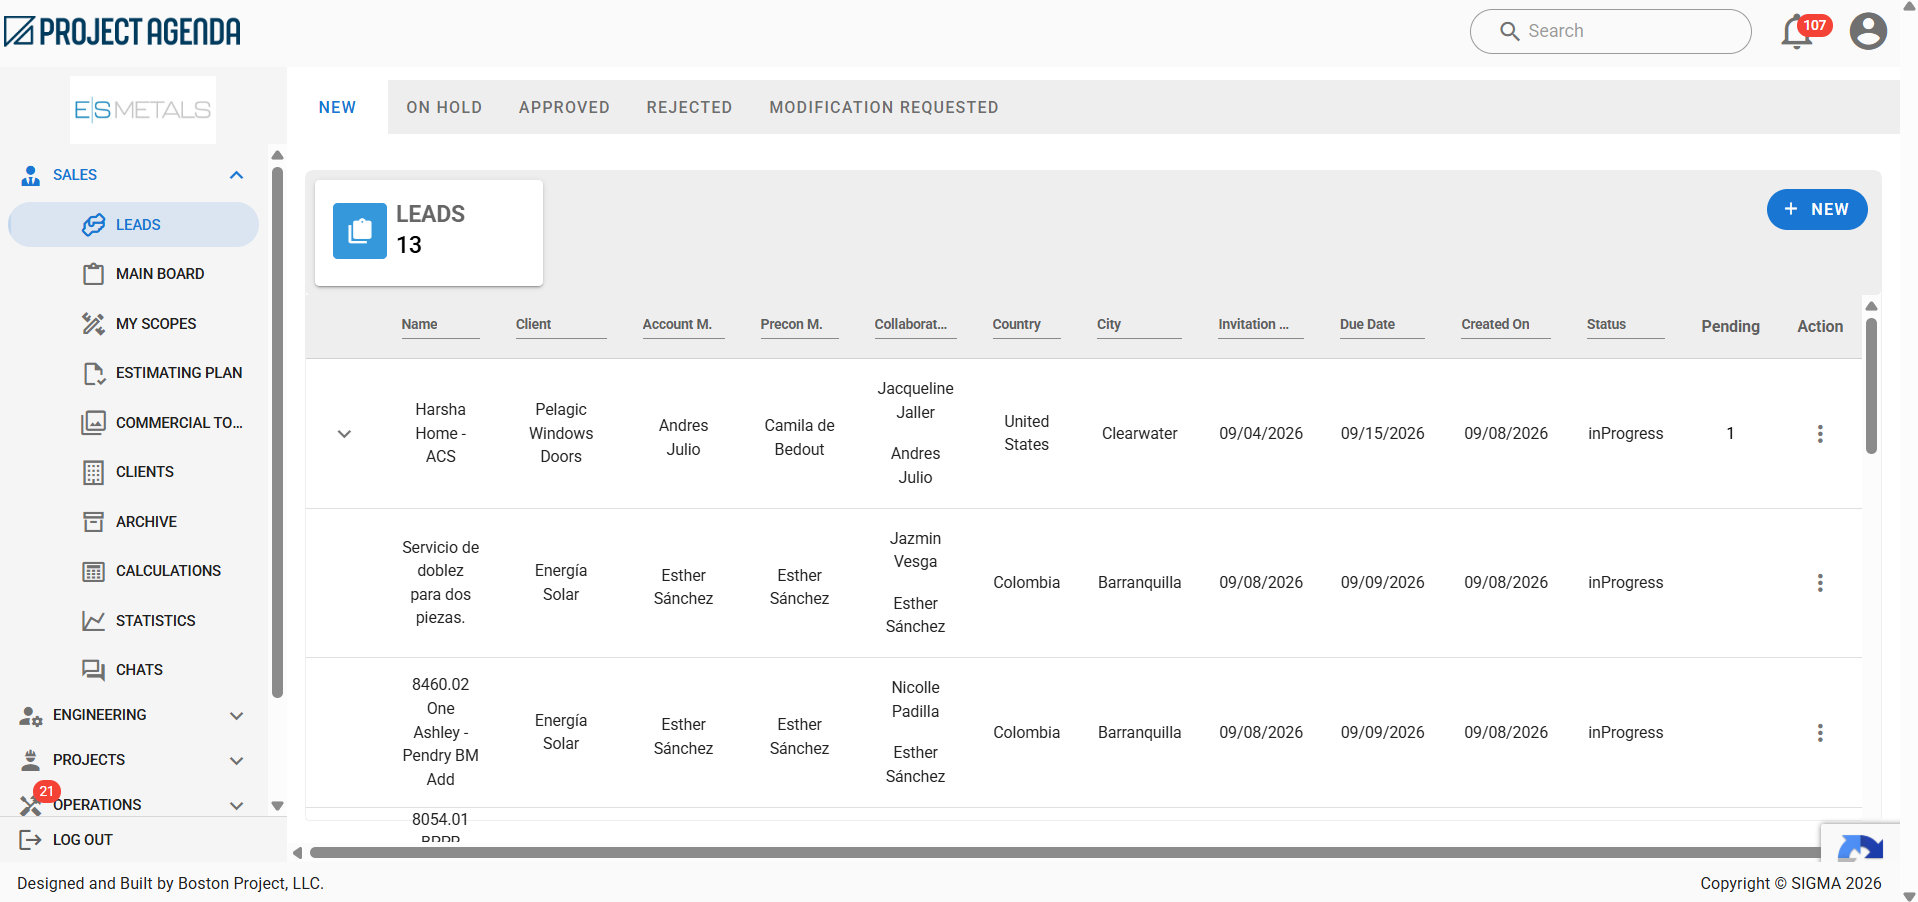
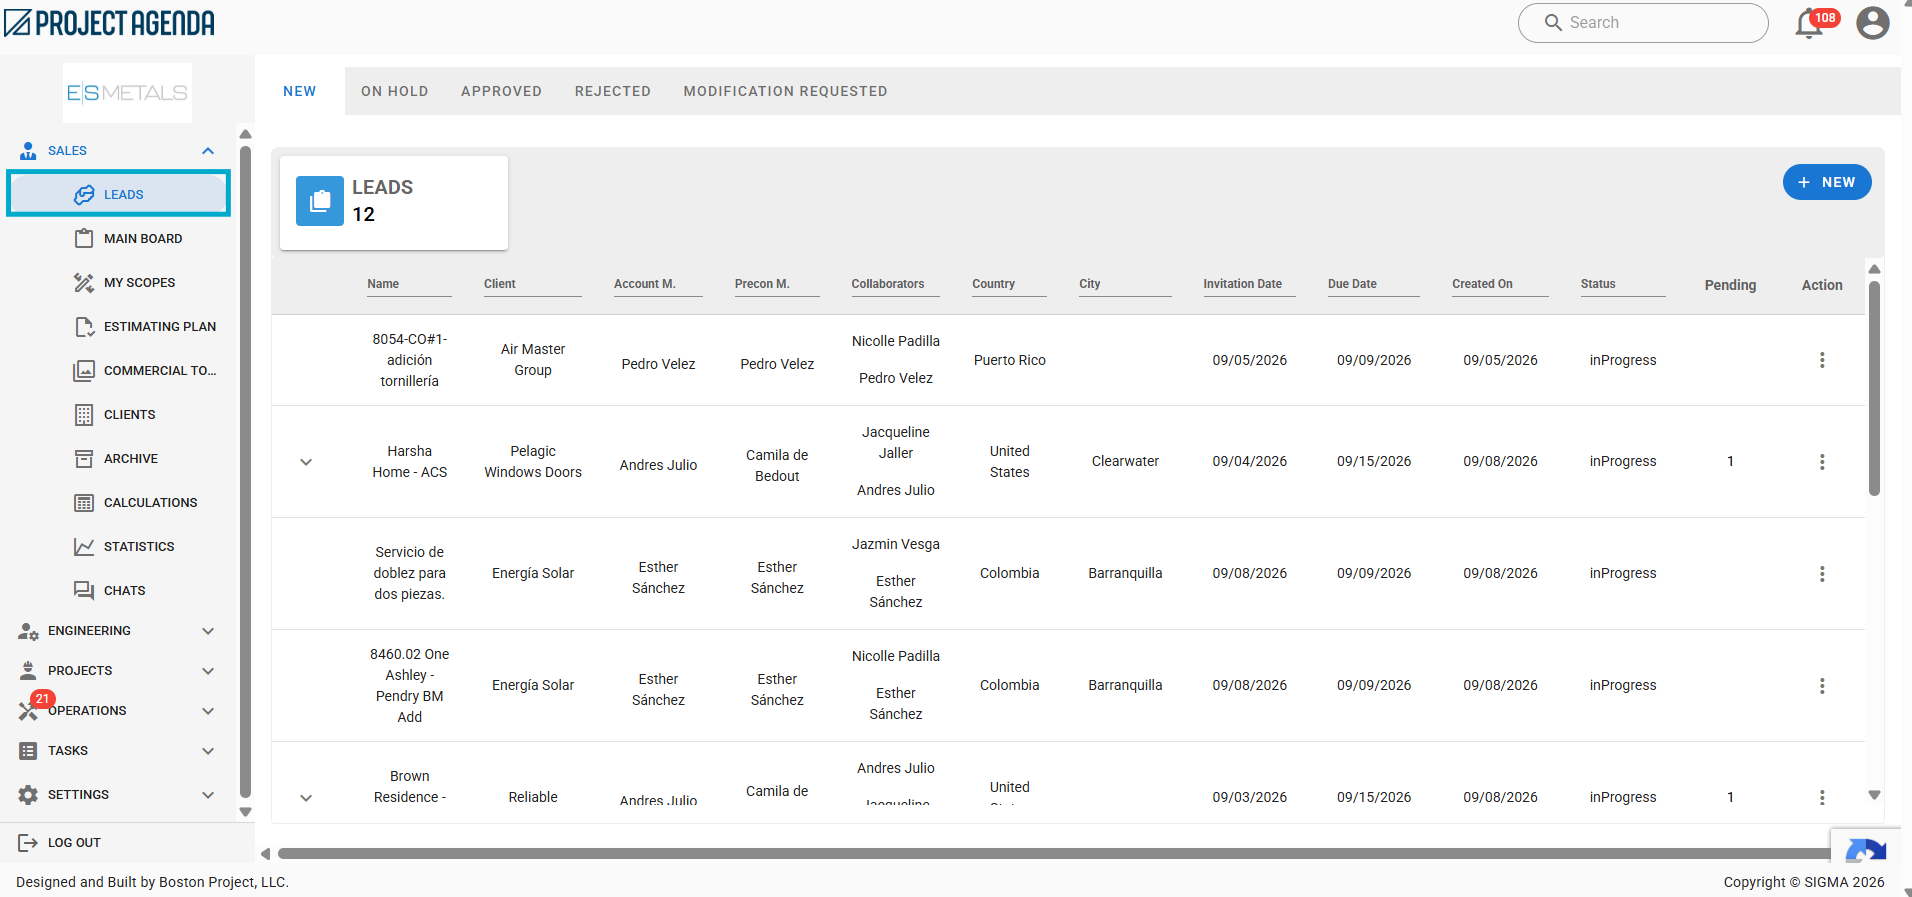
Reemplazar las capturas de Ventas & Mercadeo
Nuevo juego de seis capturas tomadas de la guía del ecosistema. Se agrega
la pantalla de versiones de la cotización, que no estaba en el juego anterior.

diff --git a/contenido/contenido.js b/contenido/contenido.js
@@ -136,15 +136,17 @@ window.ESM_CONTENIDO = {
            Para agregar otra, copie una línea y cambie el archivo y el título. */
         imagenes: [
           { archivo: "medios/imagenes/pa-ventas-01-leads.png",
-            titulo:  "Leads · bandeja de solicitudes y su estado de aprobación" },
+            titulo:  "Leads · bandeja de solicitudes con su estado: nuevas, en espera, aprobadas, rechazadas o con modificación solicitada" },
           { archivo: "medios/imagenes/pa-ventas-02-main-board.png",
-            titulo:  "Main Board · cotizaciones por etapa: Bidding, Approval y Follow Up" },
-          { archivo: "medios/imagenes/pa-ventas-03-estadisticas.png",
-            titulo:  "Estadísticas · adjudicadas, perdidas, nuevas cotizaciones y proyección de ventas" },
-          { archivo: "medios/imagenes/pa-ventas-04-adjudicado-por-asesor.png",
+            titulo:  "Main Board · cotizaciones por etapa —Bidding, Approval y Follow Up— con su valor" },
+          { archivo: "medios/imagenes/pa-ventas-03-versiones-cotizacion.png",
+            titulo:  "Versiones de la cotización · histórico de cada versión con sus documentos de licitación, adjuntos, destinatarios, moneda y valor" },
+          { archivo: "medios/imagenes/pa-ventas-04-estadisticas.png",
+            titulo:  "Estadísticas · adjudicadas, perdidas, nuevas cotizaciones y proyección de ventas del año" },
+          { archivo: "medios/imagenes/pa-ventas-05-adjudicado-por-asesor.png",
             titulo:  "Adjudicado por Account Manager · distribución y valor por asesor" },
-          { archivo: "medios/imagenes/pa-ventas-05-galeria-comercial.png",
-            titulo:  "Herramientas comerciales · galería de proyectos e imágenes de referencia" }
+          { archivo: "medios/imagenes/pa-ventas-06-galeria-comercial.png",
+            titulo:  "Herramientas comerciales · galería de proyectos con etiquetas por tipo de sistema" }
         ],
 
         imagen:      "",
